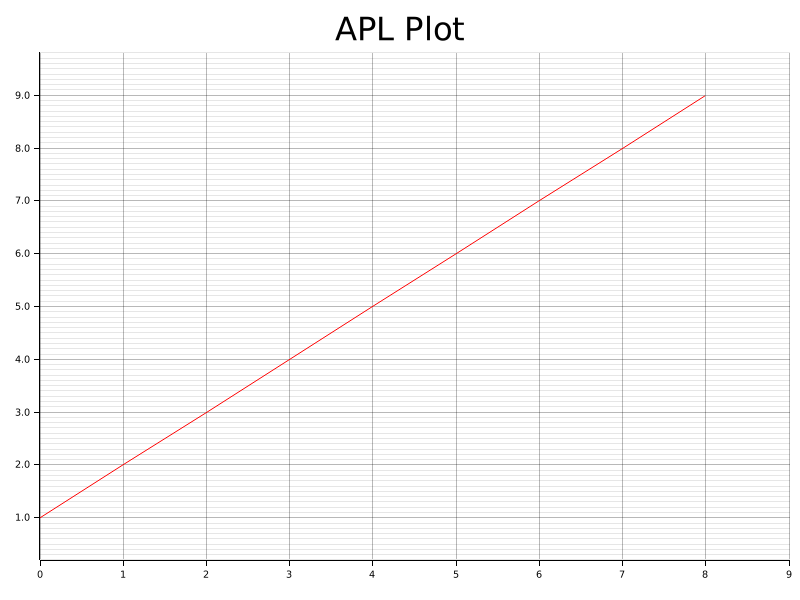
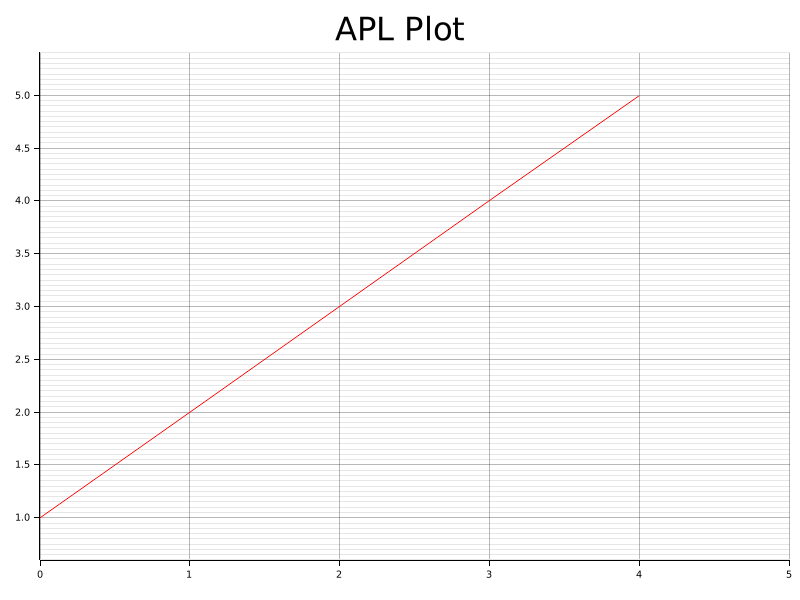
feat: expand calculator keyboard to full APL glyph set
- Added all APL primitives: ⍳ ⍴ ↑ ↓ ⌽ ⍉ ⍋ ⍒ ∈ ⊂ ⊃ ≡ ≢ ⊤ ⊥ → ⌹ ⍕ ⍎ ⍸
- Added operators: / \ ¨ ⍨ ∘.
- Added dfn symbols: ∇ ⍺ ⍵ ⎕ ⍬
- Added comparison: = < ≤ > ≥ ≠ ∧ ∨
- Added ⋄ (diamond) and ⍝ (comment)
- Window resized to 900x800 for better layout
- Plot auto-open uses absolute path via current_dir

diff --git a/src/plugins/gtk.rs b/src/plugins/gtk.rs
@@ -130,7 +130,7 @@ fn ensure_gtk_initialized() -> AplResult<GtkHandle> {
 
             let window = gtk::Window::new();
             window.set_title(Some("APL Calc"));
-            window.set_default_size(800, 600);
+            window.set_default_size(900, 800);
 
             let vbox = gtk::Box::new(gtk::Orientation::Vertical, 5);
 
@@ -180,13 +180,32 @@ fn ensure_gtk_initialized() -> AplResult<GtkHandle> {
             window.show();
 
             let buttons: Vec<(&str, i32, i32, i32)> = vec![
-                ("C", 0, 0, 1), ("CE", 1, 0, 1), ("⌫", 2, 0, 1), ("÷", 3, 0, 1),
-                ("7", 0, 1, 1), ("8", 1, 1, 1), ("9", 2, 1, 1), ("×", 3, 1, 1),
-                ("4", 0, 2, 1), ("5", 1, 2, 1), ("6", 2, 2, 1), ("−", 3, 2, 1),
-                ("1", 0, 3, 1), ("2", 1, 3, 1), ("3", 2, 3, 1), ("+", 3, 3, 1),
-                ("±", 0, 4, 1), ("0", 1, 4, 1), (".", 2, 4, 1), ("%", 3, 4, 1),
-                ("(", 0, 5, 1), (")", 1, 5, 1), ("Compute", 2, 5, 2),
-                ("Plot", 0, 6, 2), ("History", 2, 6, 2),
+                // Row 0: Clear, backspace, special
+                ("C", 0, 0, 1), ("CE", 1, 0, 1), ("⌫", 2, 0, 1), ("⋄", 3, 0, 1), ("⍝", 4, 0, 1),
+                // Row 1: Numbers + basic ops
+                ("7", 0, 1, 1), ("8", 1, 1, 1), ("9", 2, 1, 1), ("÷", 3, 1, 1), ("+", 4, 1, 1),
+                // Row 2: Numbers + basic ops
+                ("4", 0, 2, 1), ("5", 1, 2, 1), ("6", 2, 2, 1), ("×", 3, 2, 1), ("−", 4, 2, 1),
+                // Row 3: Numbers + basic ops
+                ("1", 0, 3, 1), ("2", 1, 3, 1), ("3", 2, 3, 1), ("⋆", 3, 3, 1), ("|", 4, 3, 1),
+                // Row 4: Zero + comparison
+                ("0", 0, 4, 1), (".", 1, 4, 1), ("=", 2, 4, 1), ("<", 3, 4, 1), ("≤", 4, 4, 1),
+                // Row 5: Comparison + logic
+                (">", 0, 5, 1), ("≥", 1, 5, 1), ("≠", 2, 5, 1), ("∧", 3, 5, 1), ("∨", 4, 5, 1),
+                // Row 6: Array ops
+                ("⍳", 0, 6, 1), ("⍴", 1, 6, 1), ("↑", 2, 6, 1), ("↓", 3, 6, 1), ("⌽", 4, 6, 1),
+                // Row 7: Array ops
+                ("⍉", 0, 7, 1), ("⍋", 1, 7, 1), ("⍒", 2, 7, 1), ("∈", 3, 7, 1), ("⊂", 4, 7, 1),
+                // Row 8: Array ops
+                ("⊃", 0, 8, 1), ("≡", 1, 8, 1), ("≢", 2, 8, 1), ("⊤", 3, 8, 1), ("⊥", 4, 8, 1),
+                // Row 9: Misc
+                ("→", 0, 9, 1), ("⌹", 1, 9, 1), ("⍕", 2, 9, 1), ("⍎", 3, 9, 1), ("⍸", 4, 9, 1),
+                // Row 10: Operators
+                ("/", 0, 10, 1), ("\\", 1, 10, 1), ("¨", 2, 10, 1), ("⍨", 3, 10, 1), ("∘.", 4, 10, 1),
+                // Row 11: Dfn + system
+                ("∇", 0, 11, 1), ("⍺", 1, 11, 1), ("⍵", 2, 11, 1), ("⎕", 3, 11, 1), ("⍬", 4, 11, 1),
+                // Row 12: Actions
+                ("(", 0, 12, 1), (")", 1, 12, 1), ("Compute", 2, 12, 2), ("Plot", 0, 13, 2), ("History", 2, 13, 2),
             ];
 
             for (label, col, row_idx, width) in &buttons {

diff --git a/src/quad_plot.rs b/src/quad_plot.rs
@@ -206,18 +206,14 @@ fn quad_plot_with_config(b: &ValueP, config: &PlotConfig) -> AplResult<ValueP> {
 
     root.present().map_err(|_| ErrorCode::DomainError)?;
 
-    // Auto-open if configured (default true for interactive use)
+    // Auto-open if configured (default true)
     if config.auto_open.unwrap_or(true) {
-        let path =
-            std::fs::canonicalize(filename).unwrap_or_else(|_| std::path::PathBuf::from(filename));
-        let uri = format!("file://{}", path.display());
-        let _ = std::process::Command::new(if cfg!(target_os = "macos") {
-            "open"
-        } else {
-            "xdg-open"
-        })
-        .arg(&uri)
-        .spawn();
+        let path = std::env::current_dir()
+            .map(|d| d.join(filename))
+            .unwrap_or_else(|_| std::path::PathBuf::from(filename));
+        let _ = std::process::Command::new("xdg-open")
+            .arg(path)
+            .spawn();
     }
 
     Ok(ValueP::char_vector(
